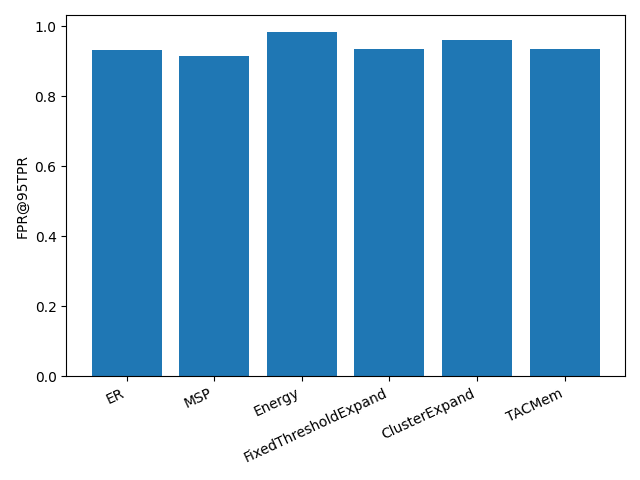
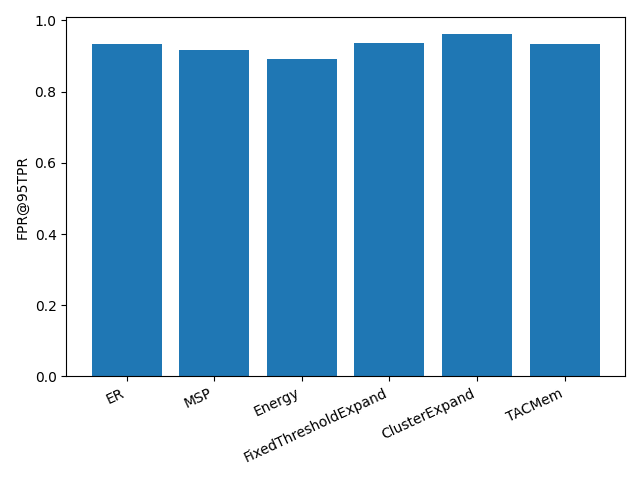
update

diff --git a/tfowsl_exp/exp/methods/energy.py b/tfowsl_exp/exp/methods/energy.py
@@ -4,14 +4,98 @@ from .base import MethodBase, StepOut
 
 
 class Energy(MethodBase):
-    def __init__(self, backbone, num_classes: int, device: str):
-        super().__init__("Energy", backbone, num_classes, device)
-        H = backbone.hidden_size
-        self.head = torch.nn.Linear(H, num_classes).to(device)
+    """Energy baseline for open set recognition.
 
-    def step(self, t, texts, labels, meta):
+    This baseline trains the classifier head just like MSP, but uses
+    negative energy (−logsumexp of logits) as the unknown score. Higher energy
+    corresponds to higher confidence for known classes, so we take its
+    negative as the unknown score for consistency (larger values → more unknown).
+    """
+
+    def __init__(self, backbone, num_classes: int, device: str, lr: float = 1e-4):
+        super().__init__("Energy", backbone, num_classes, device)
+        hidden_dim = backbone.hidden_size
+        self.head = torch.nn.Linear(hidden_dim, num_classes).to(device)
+        self.opt = torch.optim.AdamW(self.head.parameters(), lr=lr)
+
+    def step(
+        self, t: int, texts: List[str], labels: Optional[torch.Tensor], meta
+    ) -> StepOut:
         h = self.backbone(texts)
         logits = self.head(h)
-        unknown = -torch.logsumexp(logits, dim=1)   # higher -> more unknown (consistent within this codebase)
+        # energy score (more negative → less confident in known classes)
+        energy = -torch.logsumexp(logits, dim=1)
+        # convert energy to unknown score (higher → more unknown)
+        unknown = -energy
         pred = logits.argmax(dim=1)
+
+        if labels is not None:
+            loss = torch.nn.functional.cross_entropy(logits, labels)
+            self.opt.zero_grad()
+            loss.backward()
+            self.opt.step()
+
+        return StepOut(logits, unknown, pred)
+
+
+class ER(MethodBase):
+    """Experience Replay baseline.
+
+    This baseline maintains a replay buffer of past labelled examples to
+    mitigate forgetting. On each step with supervision, it trains the
+    classifier head on a mixture of current labelled data and samples from
+    the buffer. Unknown scores are computed as 1 − max softmax probability,
+    matching MSP.
+    """
+
+    def __init__(self, backbone, num_classes: int, device: str, lr: float = 1e-4, buffer_size: int = 2000):
+        super().__init__("ER", backbone, num_classes, device)
+        hidden_dim = backbone.hidden_size
+        self.head = torch.nn.Linear(hidden_dim, num_classes).to(device)
+        self.opt = torch.optim.AdamW(self.head.parameters(), lr=lr)
+        self.buffer_size = buffer_size
+        # store (text, class_id) tuples
+        self.buffer: List[Tuple[str, int]] = []
+
+    def _add_to_buffer(self, texts: List[str], labels: torch.Tensor) -> None:
+        for x, y in zip(texts, labels.tolist()):
+            self.buffer.append((x, int(y)))
+        # keep only the most recent samples up to buffer_size
+        if len(self.buffer) > self.buffer_size:
+            self.buffer = self.buffer[-self.buffer_size :]
+
+    def step(
+        self, t: int, texts: List[str], labels: Optional[torch.Tensor], meta
+    ) -> StepOut:
+        # forward pass on current batch
+        h = self.backbone(texts)
+        logits = self.head(h)
+        prob = torch.softmax(logits, dim=1)
+        unknown = 1.0 - prob.max(dim=1).values
+        pred = logits.argmax(dim=1)
+
+        if labels is not None:
+            # assemble training batch: current labelled samples + replay
+            batch_texts = list(texts)
+            batch_labels = labels.clone().detach().to(self.device)
+            # sample from buffer (up to size of current batch)
+            if len(self.buffer) > 0:
+                k = min(len(self.buffer), len(texts))
+                replay_samples = random.sample(self.buffer, k)
+                batch_texts.extend([x for x, _ in replay_samples])
+                replay_y = torch.tensor([y for _, y in replay_samples], device=self.device, dtype=torch.long)
+                batch_labels = torch.cat([batch_labels, replay_y], dim=0)
+
+            # compute embeddings and logits for the combined batch
+            h2 = self.backbone(batch_texts)
+            logits2 = self.head(h2)
+            # cross‑entropy loss on combined batch
+            loss = torch.nn.functional.cross_entropy(logits2, batch_labels)
+            self.opt.zero_grad()
+            loss.backward()
+            self.opt.step()
+
+            # add current labelled samples to buffer
+            self._add_to_buffer(texts, labels)
+
         return StepOut(logits, unknown, pred)

diff --git a/tfowsl_exp/exp/plotting.py b/tfowsl_exp/exp/plotting.py
@@ -36,3 +36,42 @@ def export_summary_plots(summary_csv: str, out_dir: str):
     plt.tight_layout()
     plt.savefig(os.path.join(out_dir, "created_classes_bar.png"))
     plt.close()
+
+    # Combined comparison grid for quick glance
+    fig, axes = plt.subplots(2, 2, figsize=(11, 8))
+    ax1, ax2, ax3, ax4 = axes.flat
+
+    methods = df["method"]
+
+    ax1.bar(methods, df["oos_auc"], color="#4c72b0")
+    ax1.set_title("OOS AUC")
+    ax1.set_ylim(0, 1)
+    ax1.tick_params(axis="x", rotation=45)
+    for x, y in zip(methods, df["oos_auc"]):
+        ax1.text(x, y + 0.01, f"{y:.2f}", ha="center", va="bottom", fontsize=8)
+
+    ax2.bar(methods, df["fpr@95tpr"], color="#dd8452")
+    ax2.set_title("FPR @ 95 TPR (lower better)")
+    ax2.set_ylim(0, 1)
+    ax2.tick_params(axis="x", rotation=45)
+    for x, y in zip(methods, df["fpr@95tpr"]):
+        ax2.text(x, y + 0.01, f"{y:.2f}", ha="center", va="bottom", fontsize=8)
+
+    ax3.bar(methods, df["created_classes"], color="#55a868")
+    ax3.set_title("Created Classes")
+    ax3.tick_params(axis="x", rotation=45)
+    offset = max(df["created_classes"].max() * 0.02, 1)
+    for x, y in zip(methods, df["created_classes"]):
+        ax3.text(x, y + offset, f"{int(y)}", ha="center", va="bottom", fontsize=8)
+
+    ax4.bar(methods, df["fer"], color="#c44e52")
+    ax4.set_title("FER")
+    ax4.set_ylim(0, max(0.01, df["fer"].max() * 1.2))
+    ax4.tick_params(axis="x", rotation=45)
+    fer_offset = 0.02 if df["fer"].max() > 0 else 0.01
+    for x, y in zip(methods, df["fer"]):
+        ax4.text(x, y + fer_offset, f"{y:.2f}", ha="center", va="bottom", fontsize=8)
+
+    plt.tight_layout()
+    plt.savefig(os.path.join(out_dir, "summary_comparison.png"), dpi=200)
+    plt.close(fig)

diff --git a/tfowsl_exp/exp/methods/msp.py b/tfowsl_exp/exp/methods/msp.py
@@ -4,15 +4,35 @@ from .base import MethodBase, StepOut
 
 
 class MSP(MethodBase):
-    def __init__(self, backbone, num_classes: int, device: str):
-        super().__init__("MSP", backbone, num_classes, device)
-        H = backbone.hidden_size
-        self.head = torch.nn.Linear(H, num_classes).to(device)
+    """Maximum Softmax Probability baseline.
 
-    def step(self, t, texts, labels, meta):
+    This method maintains a linear classifier head on top of a fixed backbone.
+    Whenever labels are available for the current batch, the head is trained
+    using a cross‑entropy loss. Unknown scores are computed as 1 minus the
+    maximum softmax probability across classes.
+    """
+
+    def __init__(self, backbone, num_classes: int, device: str, lr: float = 1e-4):
+        super().__init__("MSP", backbone, num_classes, device)
+        hidden_dim = backbone.hidden_size
+        self.head = torch.nn.Linear(hidden_dim, num_classes).to(device)
+        self.opt = torch.optim.AdamW(self.head.parameters(), lr=lr)
+
+    def step(
+        self, t: int, texts: List[str], labels: Optional[torch.Tensor], meta
+    ) -> StepOut:
+        # forward pass
         h = self.backbone(texts)
         logits = self.head(h)
         prob = torch.softmax(logits, dim=1)
         unknown = 1.0 - prob.max(dim=1).values
         pred = logits.argmax(dim=1)
+
+        if labels is not None:
+            # supervised cross‑entropy training
+            loss = torch.nn.functional.cross_entropy(logits, labels)
+            self.opt.zero_grad()
+            loss.backward()
+            self.opt.step()
+
         return StepOut(logits, unknown, pred)
